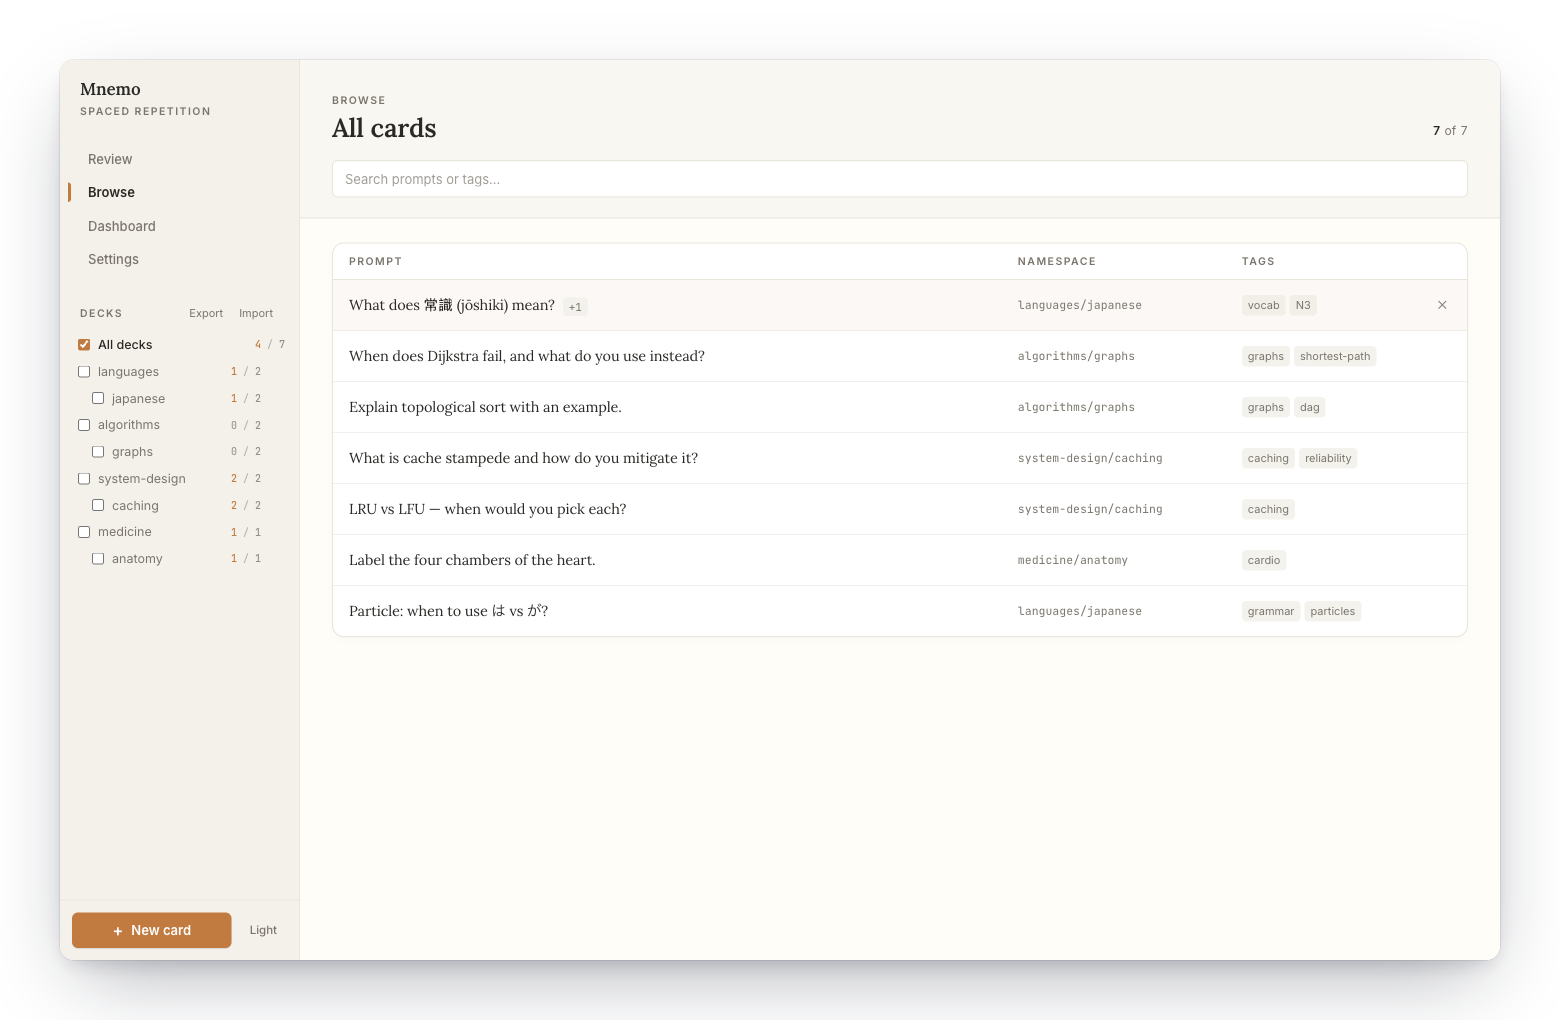
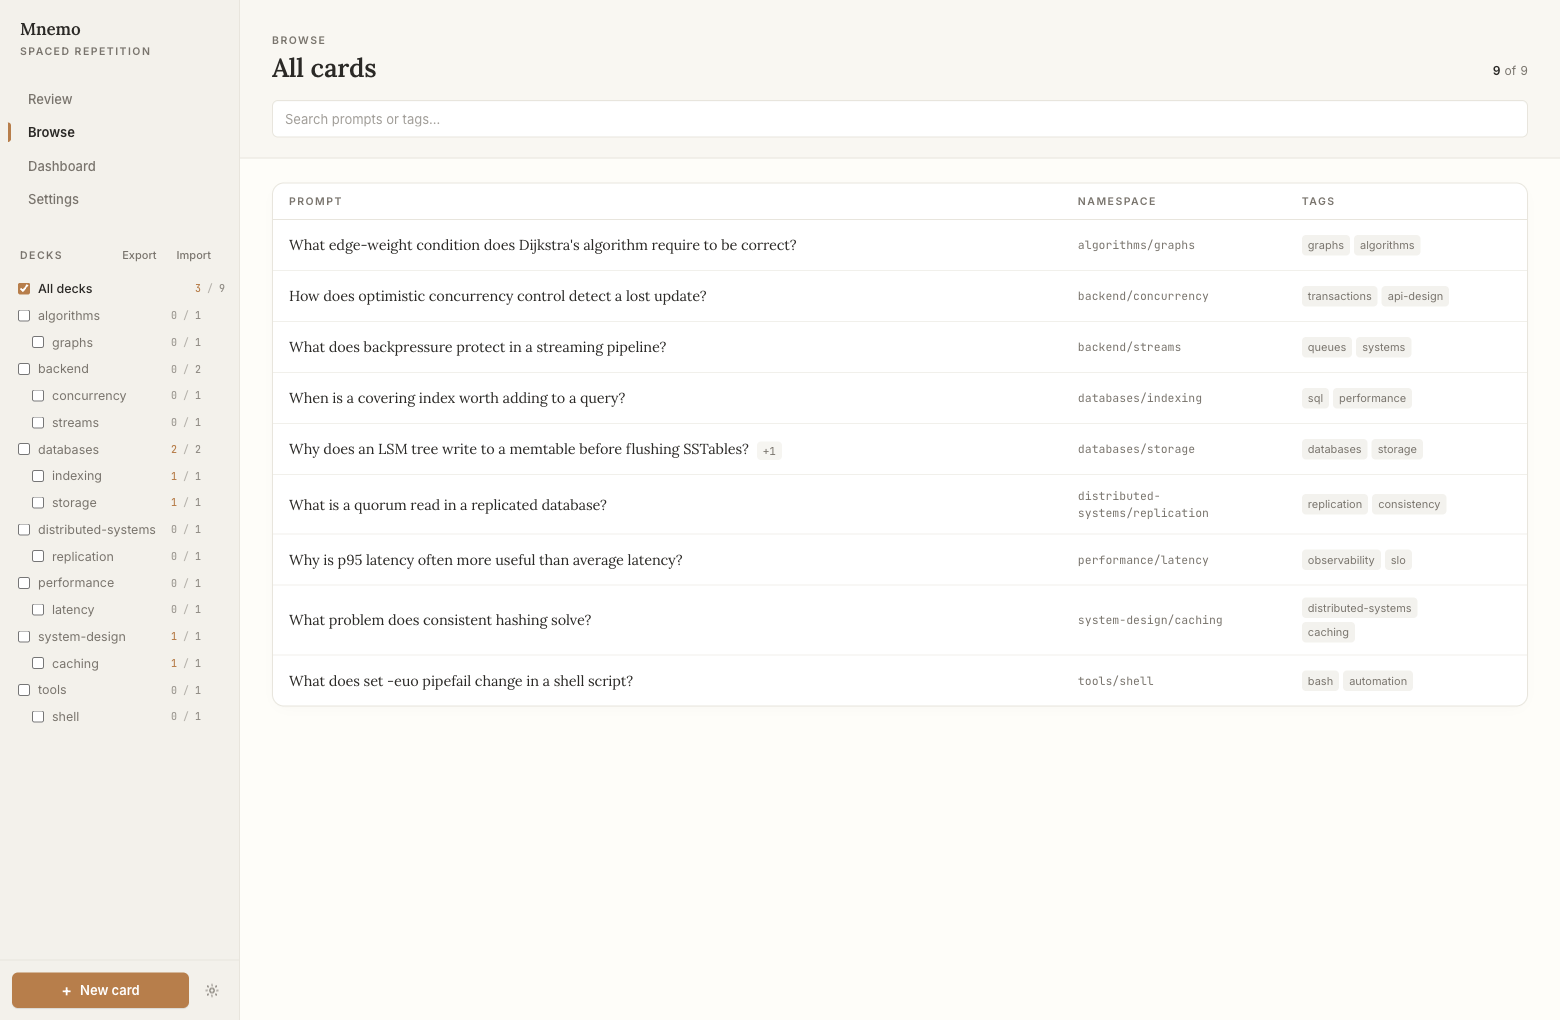
Refresh README screenshots

diff --git a/README.md b/README.md
@@ -1,221 +1,264 @@
 <p align="center">
-  <img src="./assets/logo.svg" alt="Mnemo" width="128" height="128"/>
+  <img src="./assets/logo.svg" alt="Mnemo" width="120" height="120"/>
 </p>
 
 <h1 align="center">Mnemo</h1>
 
 <p align="center">
-  A local-first spaced-repetition app for anything you want to memorise — languages, algorithms, medicine, trivia, whatever.<br/>
-  Cards are plain markdown files you own: edit in any editor, track in git.<br/>
-  Scheduling uses <a href="https://github.com/open-spaced-repetition/ts-fsrs">FSRS</a>.
+  <strong>Local-first spaced repetition for cards you actually own.</strong><br/>
+  Write cards in Markdown, organize them with folders, review with FSRS, and sync or back them up like normal files.
 </p>
 
 <p align="center">
-  <img src="./assets/screenshots/review-revealed.png" alt="Review with answer revealed" width="860"/>
+  <a href="https://github.com/yarikleto/mnemo/releases">
+    <img alt="Latest release" src="https://img.shields.io/github/v/release/yarikleto/mnemo?label=download&color=C17B40"/>
+  </a>
+  <a href="https://github.com/yarikleto/mnemo/actions/workflows/build.yml">
+    <img alt="Build status" src="https://github.com/yarikleto/mnemo/actions/workflows/build.yml/badge.svg"/>
+  </a>
+  <img alt="Local first" src="https://img.shields.io/badge/local--first-Markdown%20vault-C17B40"/>
+  <img alt="Scheduling" src="https://img.shields.io/badge/scheduling-FSRS-2F2C28"/>
 </p>
 
 <p align="center">
-  <img src="./assets/screenshots/card-view.png" alt="Read-mode card viewer with explicit Edit affordance" width="860"/>
+  <a href="https://github.com/yarikleto/mnemo/releases"><strong>Download Mnemo</strong></a>
+  &nbsp;·&nbsp;
+  <a href="#screenshots">Screenshots</a>
+  &nbsp;·&nbsp;
+  <a href="#card-format">Card format</a>
+  &nbsp;·&nbsp;
+  <a href="#development">Development</a>
 </p>
 
 <p align="center">
-  <img src="./assets/screenshots/browse.png" alt="Browse all cards" width="860"/>
+  <img src="./assets/screenshots/review-revealed.png" alt="Mnemo review screen with the answer revealed and FSRS rating buttons" width="920"/>
 </p>
 
-<p align="center">
-  <img src="./assets/screenshots/dashboard.png" alt="Dashboard with due forecast and namespace ranking" width="860"/>
-</p>
+## Why Mnemo
 
-<p align="center">
-  <img src="./assets/screenshots/editor.png" alt="Card editor with live markdown preview" width="860"/>
-</p>
+Mnemo is built for people who want spaced repetition without surrendering their study material to a service. Your cards live in a plain folder, each card is a Markdown file, and review state is stored separately so the notes stay readable and git-friendly.
 
-## Features
+| What you get | Why it matters |
+|---|---|
+| Markdown cards | Use prose, lists, code blocks, links, and images without a proprietary format. |
+| Folder-based decks | The filesystem is the source of truth; folders become namespaces in the app. |
+| FSRS scheduling | Reviews are scheduled with the modern Free Spaced Repetition Scheduler via `ts-fsrs`. |
+| Live file watcher | Edit cards in Mnemo or in your editor; changes appear in the app automatically. |
+| Portable archives | Export selected cards to `.mnemo.zip` and import them on another machine. |
+| Local data | No account, no hosted database, no cloud lock-in. |
 
-- Plain-markdown cards with YAML front-matter
-- Folder layout defines the namespace — whole decks can be deleted from the sidebar
-- FSRS scheduling with configurable retention and maximum interval
-- Live file watcher — edit cards in any editor, the app updates instantly
-- Full-text search across prompts and bodies
-- Read-mode card viewer with an explicit Edit affordance — separates recall from authoring
-- Configurable dashboard with per-widget titles and descriptions (due forecast, leech list, heatmap, streaks, namespace ranking, key stats)
-- Share cards between machines via a portable `.mnemo.zip` archive (export with search + multi-select, import with preview, target namespace, and skip/overwrite)
-- Dark, light, and system themes
-- Cross-platform packaging for macOS, Windows, and Linux
+## Screenshots
 
-## Installation
+<table>
+  <tr>
+    <td width="50%">
+      <img src="./assets/screenshots/review.png" alt="Review screen before answer reveal"/>
+      <br/>
+      <sub><strong>Review</strong> - focused recall, keyboard shortcuts, deck filters, and queue progress.</sub>
+    </td>
+    <td width="50%">
+      <img src="./assets/screenshots/browse.png" alt="Browse all cards"/>
+      <br/>
+      <sub><strong>Browse</strong> - search prompts and tags across every Markdown-backed card.</sub>
+    </td>
+  </tr>
+  <tr>
+    <td width="50%">
+      <img src="./assets/screenshots/card-view.png" alt="Read-mode card viewer"/>
+      <br/>
+      <sub><strong>Read cards</strong> - inspect prompts and answers without dropping into edit mode.</sub>
+    </td>
+    <td width="50%">
+      <img src="./assets/screenshots/editor.png" alt="Card editor with live Markdown preview"/>
+      <br/>
+      <sub><strong>Edit</strong> - prompt variants, tags, namespaces, Markdown editing, and live preview.</sub>
+    </td>
+  </tr>
+  <tr>
+    <td width="50%">
+      <img src="./assets/screenshots/dashboard.png" alt="Dashboard with due forecast, weak decks, leech list, heatmap, activity streak, and library stats"/>
+      <br/>
+      <sub><strong>Dashboard</strong> - due forecast, weak decks, leeches, retention heatmap, streaks, and stats.</sub>
+    </td>
+    <td width="50%">
+      <img src="./assets/screenshots/export.png" alt="Export dialog with selected cards"/>
+      <br/>
+      <sub><strong>Share</strong> - select cards or whole namespaces and export a portable archive.</sub>
+    </td>
+  </tr>
+</table>
 
-Mnemo ships as a single download per platform from [GitHub Releases](https://github.com/yarikleto/mnemo/releases).
+## Install
 
-### macOS
+Download the newest build for your platform from [GitHub Releases](https://github.com/yarikleto/mnemo/releases).
 
-Download the latest `.dmg`, double-click, drag Mnemo into Applications. On first launch Gatekeeper will say:
+| Platform | What to download | Notes |
+|---|---|---|
+| macOS | `.dmg` | Drag Mnemo into Applications. |
+| Windows | `Mnemo-Setup-X.Y.Z.exe` | Run the installer. |
+| Linux | `.AppImage` or `.deb` | Use the portable AppImage or install the Debian package. |
 
-> *"Mnemo cannot be opened because Apple cannot check it for malicious software."*
+<details>
+<summary><strong>Unsigned app warnings</strong></summary>
 
-Right-click the app in Applications → **Open** → confirm in the dialog that appears. macOS remembers the choice for future launches. The v1 builds are unsigned by design — Mnemo is a single-maintainer side project, and a $99/yr Apple Developer enrollment buys nothing the user actually wants. If signed builds ever land, they'll be a fast-follow.
+The current builds are unsigned. Mnemo is a small single-maintainer project, so macOS Gatekeeper and Windows SmartScreen may warn on first launch.
 
-### Windows
+- macOS: right-click Mnemo in Applications, choose **Open**, then confirm. macOS remembers this choice.
+- Windows: choose **More info** and then **Run anyway** in the SmartScreen dialog.
 
-Download `Mnemo-Setup-X.Y.Z.exe`. The first launch will trip SmartScreen ("Windows protected your PC") because the v1 installer is **unsigned** — click **More info → Run anyway**. Signed Windows builds are a v1.x fast-follow once a few Windows users surface; until then the warning is the cost of admission.
+</details>
 
-### Linux
+<details>
+<summary><strong>Linux commands</strong></summary>
+
+For AppImage:
 
 ```bash
 chmod +x Mnemo-X.Y.Z.AppImage
 ./Mnemo-X.Y.Z.AppImage
 ```
 
-Some desktop environments will offer to integrate the AppImage into the launcher — accept if you want a menu entry. For Debian / Ubuntu users a `.deb` is also published:
+For Debian or Ubuntu:
 
 ```bash
 sudo dpkg -i mnemo_X.Y.Z_amd64.deb
 ```
 
-### Updates
+</details>
 
-- **macOS, Linux (AppImage)** — Mnemo checks for new versions in the background and shows a "Restart to apply" banner when one is ready.
-- **Linux (.deb), Windows** — manual download from GitHub Releases. (Auto-update on these targets needs a signed publisher, which v1 doesn't have.)
+## First Run
 
-You can switch the auto-update off entirely from **Settings → Updates**; Mnemo will stop checking for new versions and you'll need to download updates manually.
+On first launch, Mnemo creates a managed vault in the OS-standard app data folder:
 
-## Getting started
+| Platform | Default vault |
+|---|---|
+| macOS | `~/Library/Application Support/Mnemo/vault` |
+| Windows | `%APPDATA%/Mnemo/vault` |
+| Linux | `~/.config/Mnemo/vault` |
 
-```bash
-npm install
-npm run dev
+Inside that vault:
+
+```text
+vault/
+  cards/      # your Markdown cards
+  state/      # Mnemo review state
 ```
 
-On first launch, Mnemo stores cards in the OS-managed app data folder: `~/Library/Application Support/Mnemo/vault` on macOS, `%APPDATA%/Mnemo/vault` on Windows, or `~/.config/Mnemo/vault` on Linux.
+Back up the vault like any other notes folder. If you use Git, Syncthing, Dropbox, iCloud Drive, or another file sync tool, Mnemo does not get in your way.
 
-## Card format
+## Card Format
+
+Each card is a `.md` file with YAML front matter and a Markdown answer body.
 
 ```markdown
 ---
 id: 01HXYZABC...
 prompts:
   - id: 01HXYZPROMPT1...
-    text: 'What does **常識** (jōshiki) mean?'
+    text: 'What problem does consistent hashing solve?'
   - id: 01HXYZPROMPT2...
-    text: 'Give a sentence using 常識.'
-tags: [japanese, vocab]
+    text: 'Why does adding one cache node not reshuffle every key?'
+tags: [systems, caching]
 created: 2026-01-15T10:23:00.000Z
 ---
 
-Free-form markdown. Explanations, code, diagrams — whatever helps you remember.
+Consistent hashing maps both cache nodes and keys onto the same ring.
+When one node joins or leaves, only the neighboring slice of keys moves.
 ```
 
 | Field | Meaning |
 |---|---|
-| `id` | ULID, auto-generated. The scheduler keys review state off this. |
-| `prompts` | One or more question variants. Each has its own ULID so the scheduler can keep edits stable across renames. During review, one prompt is picked at random. |
-| `tags` | Free-form, used for filtering and search. |
-| `created` | ISO 8601 timestamp. |
+| `id` | Card ULID, generated by Mnemo. Review state is keyed by this ID. |
+| `prompts` | One or more question variants. Mnemo picks one during review. |
+| `tags` | Free-form labels for search, filtering, and organization. |
+| `created` | ISO 8601 creation timestamp. |
 
-The body below the front-matter is the shared answer, shown after you reveal — same for every prompt on the card.
-
-Review state (stability, difficulty, due date, history) lives in a separate `state/` directory next to your cards, so your markdown stays clean and diff-friendly.
+The answer body below the front matter is shared by every prompt on the card. Review state lives in `state/<id>.json`, not in the Markdown file, so your notes stay clean.
 
 ## Namespaces
 
-The folder a card lives in is its namespace.
+The folder path under `cards/` becomes the card namespace.
 
-```
+```text
 vault/
   cards/
     languages/
-      japanese/vocab.md         → languages/japanese
-      spanish/verbs.md          → languages/spanish
+      japanese/vocab.md         -> languages/japanese
+      spanish/verbs.md          -> languages/spanish
     algorithms/
-      graphs/dijkstra.md        → algorithms/graphs
-    medicine/
-      anatomy/heart.md          → medicine/anatomy
+      graphs/dijkstra.md        -> algorithms/graphs
+    systems/
+      caching/consistent.md     -> systems/caching
 ```
 
-The sidebar tree, namespace ranking widget, and review filters all derive from this layout. Hover a deck in the sidebar to delete it — the app removes the namespace folder, every card under it, and the matching review state atomically.
+Namespaces power the sidebar, deck filters, dashboard ranking, and archive export. Deleting a namespace removes the folder, every card under it, and the matching review state.
 
-## Sharing cards
+## Sharing Cards
 
-Cards are portable. To hand some off to another machine or another person:
+Mnemo archives contain cards and referenced assets, not review progress. That means you can share study material without copying someone else's memory state.
 
-1. **Export** — open the sidebar → Export, search and multi-select cards (tri-state namespace checkboxes let you grab whole decks at once), pick a destination. You get a single `.mnemo.zip` containing every selected card plus any assets they reference.
-2. **Import** on the other side — Sidebar → Import, pick the archive, preview the card count, choose a target namespace (defaults to `imported`), and decide whether to skip or overwrite cards whose IDs already exist.
+1. Open **Export** from the sidebar.
+2. Search, select cards, or select whole namespaces.
+3. Save the `.mnemo.zip` archive.
+4. On another machine, choose **Import**, preview the archive, pick a target namespace, and skip or overwrite existing card IDs.
 
-<p align="center">
-  <img src="./assets/screenshots/export.png" alt="Export dialog with tri-state namespace checkboxes" width="720"/>
-</p>
+## Updates
 
-Review state (stability, difficulty, due date) is **not** shared — archives carry cards and assets only. Progress stays local to each machine.
+- macOS and Linux AppImage builds can check for updates in the background and show a restart banner when an update is ready.
+- Windows and Linux `.deb` builds are updated manually from [GitHub Releases](https://github.com/yarikleto/mnemo/releases).
+- Auto-update checks can be disabled in **Settings -> Updates**.
 
-## Scripts
+## Development
+
+Mnemo is an Electron app with a React renderer, a strict preload boundary, and a local main-process store for disk I/O, indexing, file watching, archives, and FSRS scheduling.
+
+```bash
+npm install
+npm run dev
+```
 
 | Command | Description |
 |---|---|
 | `npm run dev` | Vite + Electron with hot reload |
-| `npm run build` | Typecheck and build |
-| `npm run typecheck` | `tsc --noEmit` |
+| `npm run build` | Typecheck and build renderer, main, and preload bundles |
+| `npm run typecheck` | TypeScript only |
 | `npm run test` | Vitest unit tests |
-| `npm run e2e` | Playwright end-to-end |
+| `npm run e2e` | Playwright end-to-end tests |
+| `npm run dist` | Build an installer for the current platform |
 
-See [Building for release](#building-for-release) for packaging commands.
+```text
+src/
+  main/       Electron main process: disk I/O, FSRS, IPC, file watcher
+  preload/    Context-bridge API exposed to the renderer
+  renderer/   React UI: routes, widgets, stores
+  shared/     Zod schemas, constants, and API types
+```
 
-## Building for release
+## Building Releases
 
 Packaging is handled by [electron-builder](https://www.electron.build/). Per-platform targets are declared in `electron-builder.yml`.
 
 | Command | Platform | Artifacts |
 |---|---|---|
-| `npm run dist` | Auto-detected (current OS) | — |
+| `npm run dist` | Current OS | Platform default |
 | `npm run dist:mac` | macOS | `.dmg`, `.zip` |
 | `npm run dist:mac:arm64` | macOS Apple Silicon | arm64 `.dmg`, arm64 `.zip` |
 | `npm run dist:win` | Windows | NSIS installer (`.exe`) |
 | `npm run dist:linux` | Linux | `AppImage`, `.deb` |
 
-Artifacts land in `out/`. The first run downloads the Electron binaries for the target platform and may take a few minutes.
+Artifacts land in `out/`. The first packaging run downloads Electron binaries and can take a few minutes.
 
-### GitHub CI
+### CI
 
-`.github/workflows/build.yml` runs on pushes, pull requests, and manual dispatches. Pull requests run the typecheck + unit-test gate only; pushes to `main` and manual runs also package macOS, Windows, and Linux installers and upload them as workflow artifacts.
+`.github/workflows/build.yml` runs typecheck and tests, and packages installers on pushes to `main` or manual runs.
 
-`.github/workflows/release.yml` is manual-only. Run it from GitHub Actions with a `version` input matching `package.json`; it builds macOS, Windows, and Linux on native runners and publishes `vX.Y.Z` to GitHub Releases through `electron-builder`. The optional `platform` input defaults to `all` and can republish one platform if a release job needs to be retried.
+`.github/workflows/release.yml` is manual-only. Run it with a `version` input matching `package.json`; it builds platform installers and publishes `vX.Y.Z` to GitHub Releases.
 
-### Cross-building
+### Code Signing
 
-Each installer format needs its target OS — either natively or emulated:
+Unsigned builds run locally, but operating systems warn users. To sign releases:
 
-- **`.dmg`** — build on macOS only. Apple's tooling isn't available elsewhere.
-- **Windows `.exe`** — build on Windows, or on macOS/Linux with [Wine](https://www.winehq.org/) installed.
-- **Linux `AppImage` / `.deb`** — build on any OS.
+- macOS: set `CSC_LINK`, `CSC_KEY_PASSWORD`, `APPLE_ID`, `APPLE_APP_SPECIFIC_PASSWORD`, and `APPLE_TEAM_ID`.
+- Windows: set `CSC_LINK` and `CSC_KEY_PASSWORD`.
 
-### Code signing (optional)
-
-Unsigned builds run fine locally, but users will see OS warnings. For distribution:
-
-- **macOS** — export your Developer ID certificate as a `.p12`, then set `CSC_LINK` (path or base64) and `CSC_KEY_PASSWORD` before `npm run dist:mac`. For notarisation, also set `APPLE_ID`, `APPLE_APP_SPECIFIC_PASSWORD`, and `APPLE_TEAM_ID`.
-- **Windows** — set `CSC_LINK` + `CSC_KEY_PASSWORD` with your code-signing certificate.
-
-Full details: [electron-builder signing docs](https://www.electron.build/code-signing).
-
-### App icon
-
-The Mnemo logo lives at `assets/logo.svg`. To produce platform icons (`.icns` for macOS, `.ico` for Windows, `.png` set for Linux), rasterise the SVG to a 1024×1024 PNG and drop it at `build/icon.png` — electron-builder will generate the rest automatically on `npm run dist`.
-
-## Project structure
-
-```
-src/
-├── main/       Electron main process — disk I/O, FSRS, IPC, file watcher
-├── preload/    Context-bridge API exposed to the renderer
-├── renderer/   React UI (routes, widgets, stores)
-└── shared/     Zod schemas and types used by both sides
-```
-
-## Data
-
-- **Cards and review state** live under the vault folder you picked — back them up like any other notes.
-- **App config** is stored in the OS-standard app-data directory:
-  - macOS — `~/Library/Application Support/Mnemo/`
-  - Windows — `%APPDATA%/Mnemo/`
-  - Linux — `~/.config/Mnemo/`
-
-All writes are atomic (temp file + rename), so a crash mid-write won't corrupt state.
+See the [electron-builder code signing docs](https://www.electron.build/code-signing) for full details.
